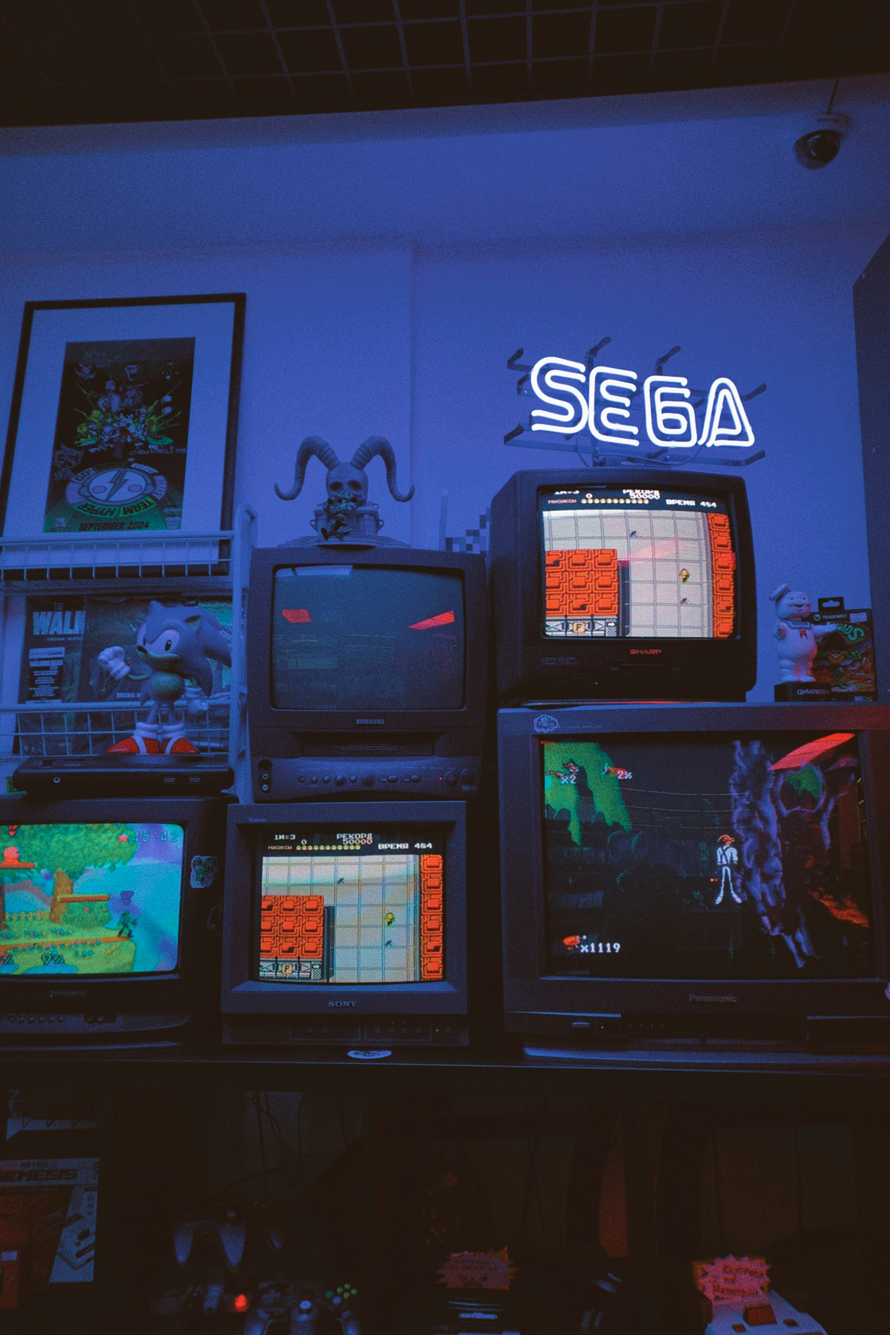
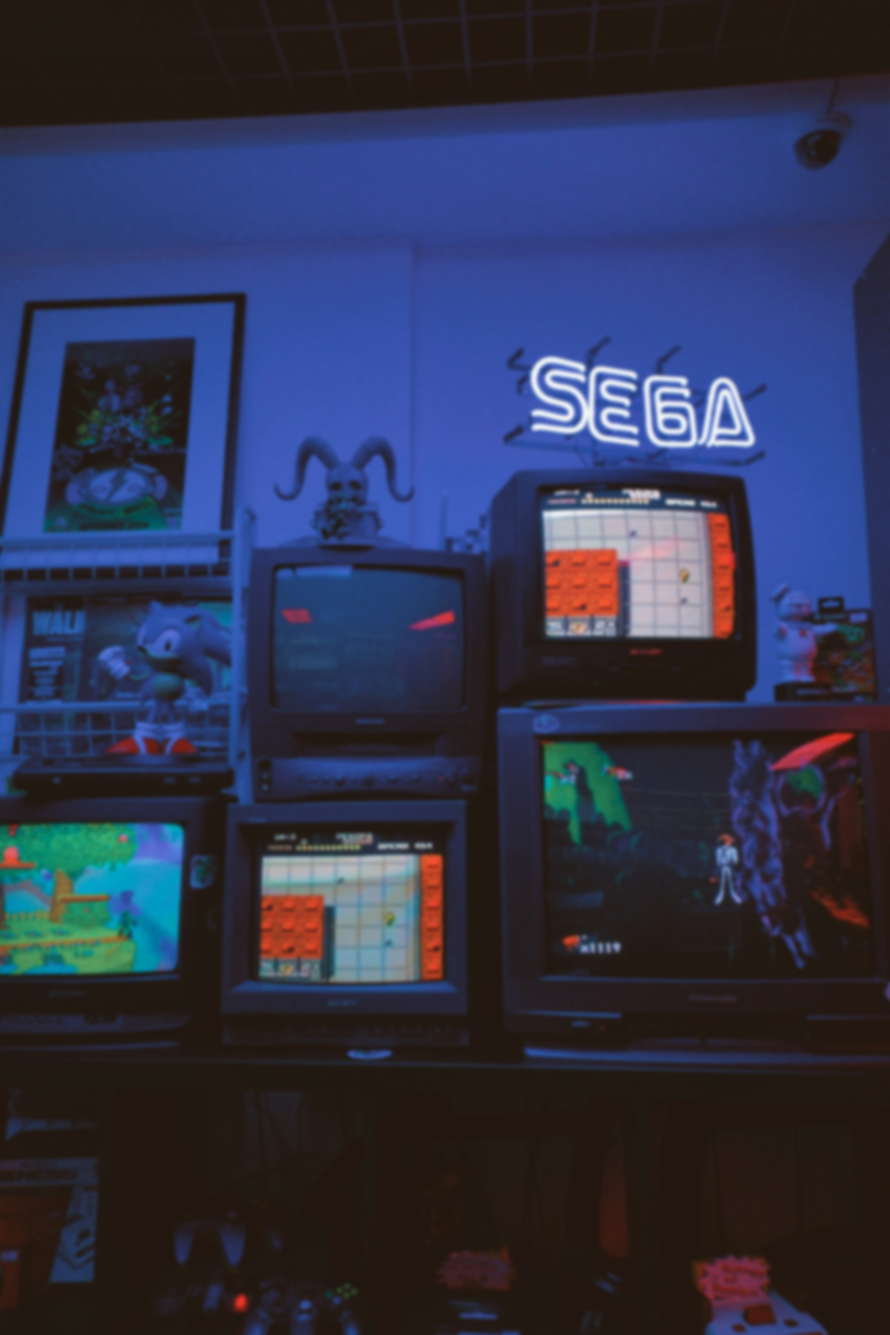
Added more assets

diff --git a/NOTICE.md b/NOTICE.md
@@ -13,7 +13,7 @@ Appropriate credit as per Creative Commons licenses.
 
 | Work                                                   | License        | Changes
 |:-------------------------------------------------------|:---------------|:-
-| Photo by [Xenia Radchenko][xr]                         | [Unsplash]     | None
+| Photo by [Xenia Radchenko][xr]                         | [Unsplash]     | Blurred
 | [IcoMoon Icons Free Version][11] by [Keyamoon][12]     | [CC-BY-SA-4.0] | None
 | [Touch-161562.svg][41]                                 | [CC0-1.0]      | Composition
 
